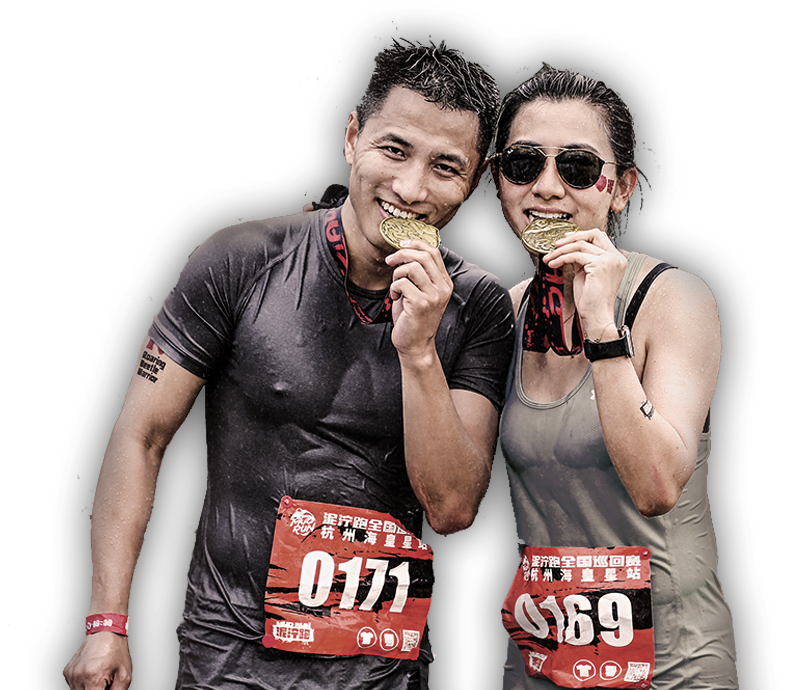
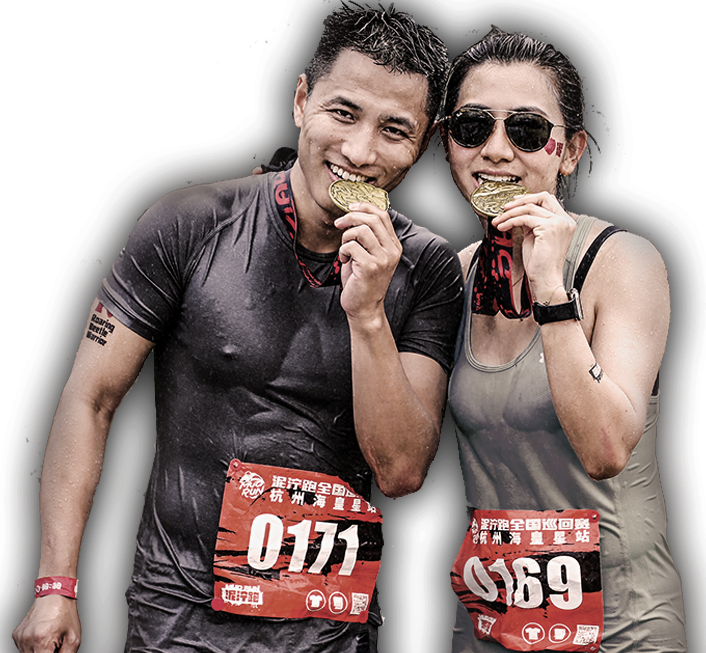
新增

diff --git a/less/index.less b/less/index.less
@@ -27,55 +27,54 @@ html,body{
 }
 /* 页面背景图样式 */
 .pageBG{
-	width: 100%;
-	height: 100%;
+	width: @width100;
+	height: @height100;
 	.pageBGImg();
 }
 
 /* 铁丝网背景样式 */
 .wangBG{
-	width: 100%;
-	height: 100%;
+	width: @width100;
+	height: @height100;
 	.wangBGImg();
 }
 
 .colorBG{
-	width: 100%;
-	height: 100%;
+	width: @width100;
+	height: @height100;
 	.radialGradient();
 }
 
 /* 绳子和x-m */
 .szBox{
-	height: 174px;
-	width: 100%;
-	.pR();
-	top: 160px;
+	height: 160px;
+	width:@width100;
+	.rel();
+	top:160px;
 	.margin();
 	.image1{
 		display: block;
 		.margin();
-		.pR();
+		.rel();
 	}
 	.image2{
-		width: 100%;
-		display: block;
-		.margin();
-		.pR();
-		top: -200px;
+		width:45%;
+		.abs();
+		top:86px;
+		bottom:-20px;
 	}
-}
-
-/* 人 */
-.rBox{
-	height: auto;
-	width: 40%;
-	.pR();
-	.margin();
-	.image1{
-		width:100%;
+	.image3{
+		width:50%;
+		.abs();
+		bottom:-20px;
+		left:50%;
+	}
+	.image4{
+		width:50%;
 		display: block;
 		.margin();
-		.pR();
+		.rel();
+		top:-220px;
+		left:-5%;
 	}
 }

diff --git a/index.html b/index.html
@@ -16,14 +16,13 @@
             	<div class="pageBG">
             		<div class="wangBG">
             			<div class="colorBG">
-            				绳子和X-M
+            				<!-- 绳子和X-M -->
             				<div class="szBox">
             					<img class="image1" src="image/X-MUDDER.png" alt="X-MUDDER">
-            					<img class="image2" src="image/sz1.png" alt="绳子">
-            				</div>
-            				<!-- 人 -->
-            				<div class="rBox">
-            					<img class="image1" src="image/ren.png" alt="人">
+            					<img class="image2" src="image/sz06.png" alt="绳子">
+                                <img class="image3" src="image/sz07.png" alt="绳子">
+                                <img class="image4" src="image/ren.png" alt="人">
+                                <img class="image5" src="image/sz2.png" alt="绳子">
             				</div>
             			</div>
             		</div>

diff --git a/css/index.css b/css/index.css
@@ -7,6 +7,7 @@
 /* 橘色 */
 /* 白色 */
 /* 渐变背景色*/
+/* 宽高 */
 /* 定位 */
 /* 公共样式 */
 * {
@@ -64,7 +65,7 @@ body {
 }
 /* 绳子和x-m */
 .szBox {
-  height: 174px;
+  height: 160px;
   width: 100%;
   position: relative;
   top: 160px;
@@ -76,22 +77,22 @@ body {
   position: relative;
 }
 .szBox .image2 {
-  width: 100%;
+  width: 45%;
+  position: absolute;
+  top: 86px;
+  bottom: -20px;
+}
+.szBox .image3 {
+  width: 50%;
+  position: absolute;
+  bottom: -20px;
+  left: 50%;
+}
+.szBox .image4 {
+  width: 50%;
   display: block;
   margin: 0 auto;
   position: relative;
-  top: -200px;
-}
-/* 人 */
-.rBox {
-  height: auto;
-  width: 40%;
-  position: relative;
-  margin: 0 auto;
-}
-.rBox .image1 {
-  width: 100%;
-  display: block;
-  margin: 0 auto;
-  position: relative;
+  top: -220px;
+  left: -5%;
 }

diff --git a/less/common.less b/less/common.less
@@ -35,6 +35,9 @@
 @rbg1:5%;
 @rbg2:50%;
 @rbg3:80%;
+/* 宽高 */
+@width100:100%;
+@height100:100%;
 .radialGradient(){
   background: -webkit-radial-gradient(transparent @rbg1, transparent @rbg2, @bg-color @rbg3); /* Safari 5.1 - 6.0 */
   background: -o-radial-gradient(transparent @rbg1, transparent @rbg2, @bg-color @rbg3); /* Opera 11.6 - 12.0 */
@@ -62,13 +65,13 @@
 }
 
 /* 定位 */
-.pA(){
+.abs(){
 	position:absolute;
 }
-.pR(){
+.rel(){
 	position:relative;
 }
-.pF(){
+.fix(){
 	position: fixed;
 }
 

diff --git a/css/common.css b/css/common.css
@@ -7,4 +7,5 @@
 /* 橘色 */
 /* 白色 */
 /* 渐变背景色*/
+/* 宽高 */
 /* 定位 */
